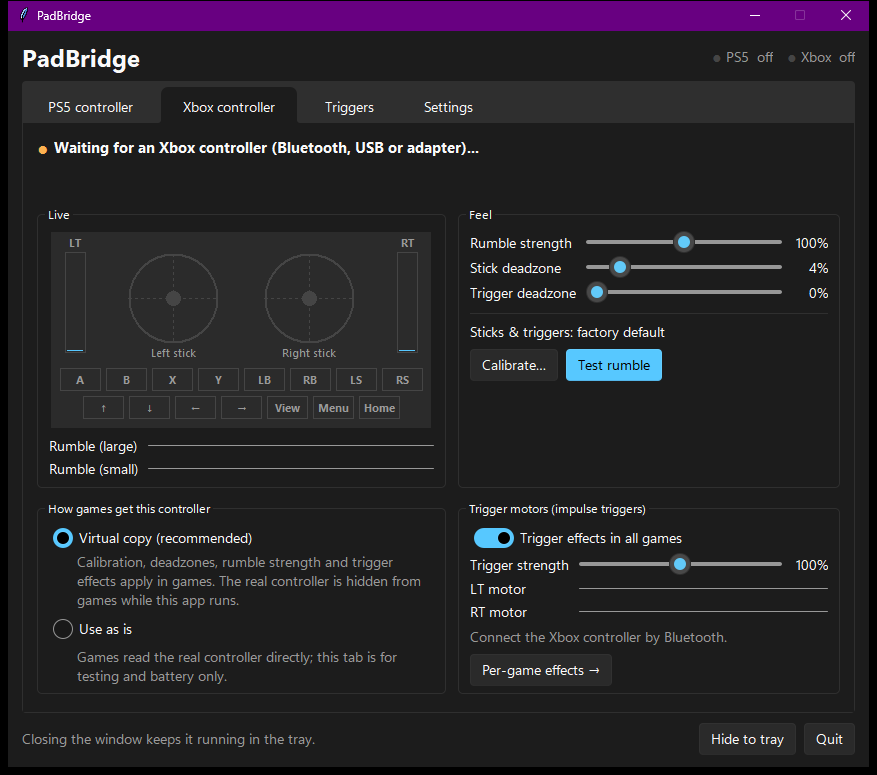
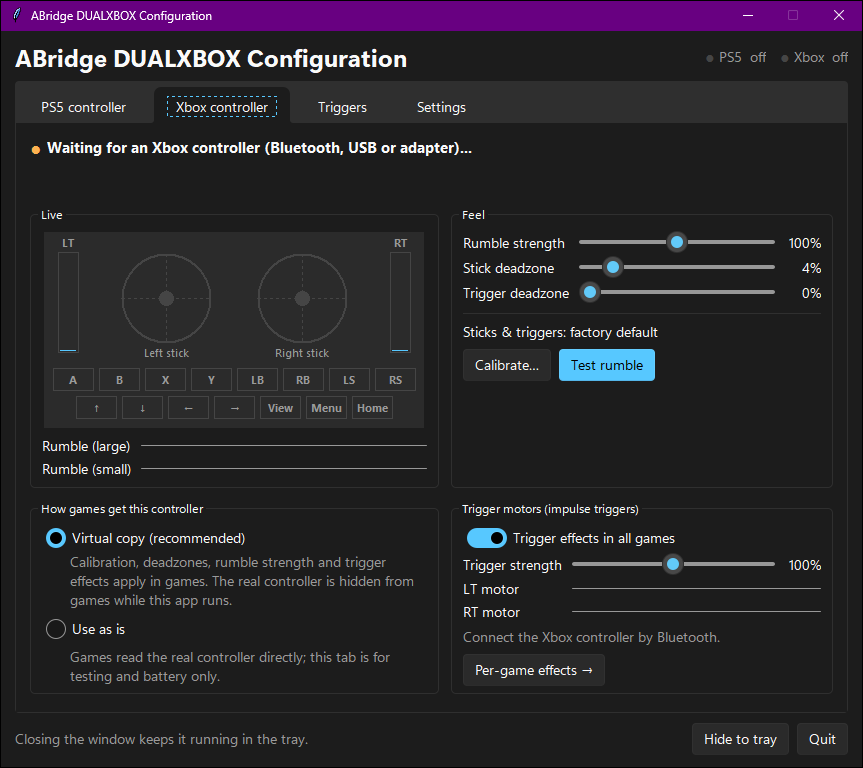
Rename to ABridge DUALXBOX Configuration; installer, setup guide, new screenshots

diff --git a/overlay_link.py b/overlay_link.py
@@ -1,6 +1,6 @@
-"""Shared-memory link with the RITOM's OWN LIBRARY game overlay.
+"""Shared-memory link with the KILA Local Game Library in-game overlay.
 
-16 bytes in the named mapping Local\\PuzariPadLink:
+16 bytes in the named mapping Local\\ABridgePadLink:
   0-1  buttons  (XInput bits, little endian) - written here, so the overlay can read the pad even
                 while the game is getting a neutral one
   2    hold     - set by the overlay while its panel is open: games get a neutral pad
@@ -17,7 +17,7 @@ GUIDE = 0x0400
 class Link:
     def __init__(self):
         try:
-            self.mm = mmap.mmap(-1, 16, tagname="Local\\PuzariPadLink")
+            self.mm = mmap.mmap(-1, 16, tagname="Local\\ABridgePadLink")
         except Exception:
             self.mm = None
         self.last = -1

diff --git a/README.md b/README.md
@@ -1,45 +1,106 @@
-# PadBridge
+# ABridge DUALXBOX Configuration
 
-A Windows companion app for **PS5 (DualSense)** and **Xbox** controllers on PC.
+A free Windows companion app for **PS5 DualSense** and **Xbox Series / One** controllers on PC.
 
-- **DualSense → Xbox:** games see your DualSense as a normal Xbox controller, with rumble, adaptive triggers and audio haptics.
-- **Xbox controller:** games get a calibrated virtual copy, plus **impulse-trigger effects in every game**.
-- **Per-game profiles** for both controllers, a **battery saver**, and very little added input delay.
+- **DualSense → Xbox:** every game sees your DualSense as a normal Xbox controller, with rumble, **adaptive triggers** and **audio haptics**.
+- **Xbox controller:** games get a calibrated virtual copy, plus **impulse-trigger (trigger motor) effects in every game**, even games that never supported them.
+- **Per-game profiles**, simulated **gun triggers**, **battery saver**, and about **0.25 ms** added input delay.
 
-![Xbox controller tab](docs/tab1.png)
+![PS5 controller tab](docs/tab0.png)
 
 ## Features
 
-### PS5 DualSense (USB or Bluetooth)
-- Shows up as a virtual **Xbox 360 controller** through ViGEmBus, so every game that supports Xbox controllers works.
+### PS5 DualSense / DualSense Edge (USB or Bluetooth)
+- Shows up as a virtual **Xbox 360 controller** (ViGEmBus), so every game with Xbox controller support works, Steam or not.
 - **Rumble** from games, 0–200% strength.
-- **Adaptive triggers:** each game can have its own L2/R2 effect: light or heavy resistance, gun "click", or machine-gun rattle.
-  - **Simulated guns** (pistol, assault rifle, burst, SMG, machine gun, shotgun, sniper) kick the trigger at their rate of fire, with an optional recoil pulse. The mic button switches between guns.
-  - For games with real PS5 support, tick **"supports the PS5 controller"** and the app hands the DualSense to the game.
-- **Audio haptics (USB):** feel the game's sound through the haptic motors, with a noise gate so quiet music and ambience aren't felt.
-- Lightbar colour and brightness, player-number LEDs, calibration wizard, firmware-updater shortcut.
+- **Adaptive triggers per game** on L2/R2: off, light or heavy resistance, gun "click", machine-gun rattle.
+- **Simulated guns**: pistol, assault rifle, burst, SMG, machine gun, shotgun and sniper. Pulling past the break point fires, the trigger kicks at the gun's rate of fire, with an optional recoil pulse in the controller body. The **mic button** switches to the next gun.
+- **Native PS5 games** (Cyberpunk 2077, Spider-Man, Returnal…): tick *"Game supports the PS5 controller"* and the app hands the real DualSense to that game, so you get the game's own triggers and haptics.
+- **Audio haptics (USB):** feel the game's sound through the haptic motors, with a noise gate so quiet music and ambience aren't felt, and live bass/level meters.
+- **Touchpad click = View (Back)**, lightbar colour and brightness, player-number LEDs.
+- **Calibration wizard** for sticks and triggers, stick and trigger deadzones.
+- **Firmware updater shortcut** (Sony's official tool).
+- Live view of sticks, triggers, buttons and rumble.
 
-### Xbox controller (Series X|S / One, Bluetooth)
-- **Virtual copy** mode: games get a corrected copy with your calibration and deadzones applied.
-- **Trigger motors (impulse triggers) in all games**, sent straight to the controller over Bluetooth HID. Per game, LT and RT can each be set to:
+### Xbox controller (Series X|S, One, Elite; Bluetooth for trigger motors)
+- **Virtual copy** mode: games get a corrected copy with your calibration, deadzones and rumble strength; the real pad is hidden from games.
+- **Trigger motors in all games**, sent straight to the controller over Bluetooth. Per game, LT and RT can each be:
   - **Buzz with the game's rumble** while you hold the trigger
   - **Aim:** a soft click when you pull past halfway, then buzz with the game's rumble
   - **Guns:** the same seven presets as the DualSense
   - **Powers:** e.g. *boulder launch*, a launch thump followed by the game's own power surge, boosted
   - **Machine-gun rattle** or **off**
+- Trigger strength 0–100%, live LT/RT motor meters, battery level read from Windows.
+- Turning the controller off and on, or Windows moving it to another slot, is handled automatically.
+
+![Xbox controller tab](docs/tab1.png)
+
+### Per-game profiles (both controllers)
+- Games are detected when they start; each game remembers its own PS5 trigger effects and Xbox trigger-motor effects, plus "Other games" as the default.
+- While the **Triggers** tab is open the selected profile is **live**, so you can pull the triggers and feel it before playing.
 
 ![Triggers tab](docs/tab2.png)
 
-### Both controllers
-- **Per-game trigger profiles.** The game is detected when it starts, and while the Triggers tab is open you can try a profile live.
-- **Battery:**
-  - Low-battery warning in the tray.
-  - **Battery saver:** automatic below a chosen %, always on, or off. It halves rumble, dims the lightbar and keeps only short trigger effects.
-  - Stuck rumble is stopped after 8 s if a game leaves it on and you're not touching the controller.
-- **HidHide** integration: games only see the virtual controllers, so there's no double input. Quitting the app shows the real controllers again.
-- Windows 11 style UI (light/dark), tray icon, start with Windows.
+### Battery and comfort
+- Low-battery warning in the tray (repeats every 15 min while low).
+- **Battery saver:** automatic below a chosen %, always on, or off. Half-strength rumble, dim lightbar, LEDs off, only short trigger effects.
+- **Stuck rumble stop:** rumble a game leaves running (pause menus, alt-tab) stops after 8 s if you aren't touching the controller.
+- Windows 11 style UI with light/dark theme, tray icon, **Start with Windows**.
+
+### HidHide integration
+- While the app runs, games only see the virtual controllers, so there's **no double input**. Quitting the app shows the real controllers again.
+- The app registers itself with HidHide automatically; nothing to set up by hand.
 
 ![Settings tab](docs/tab3.png)
+
+## Requirements (install these first)
+
+| What | Why | Where |
+| --- | --- | --- |
+| **Windows 10 or 11, 64-bit** | | |
+| **Python 3.12 (64-bit)** | runs the app. Tick **"Add python.exe to PATH"** in the installer | [python.org/downloads](https://www.python.org/downloads/) |
+| **ViGEmBus** (required) | creates the virtual Xbox controllers | [ViGEmBus releases](https://github.com/nefarius/ViGEmBus/releases) |
+| **HidHide** (strongly recommended) | hides the real controllers from games, so they don't see two pads. **Restart the PC** after installing | [HidHide releases](https://github.com/nefarius/HidHide/releases) |
+| **Bluetooth** | Xbox trigger motors only work over Bluetooth. Over USB or the Xbox Wireless Adapter you get normal rumble only | |
+| **USB cable** (DualSense) | needed for audio haptics; Bluetooth works for everything else | |
+
+## Install
+
+1. Install the requirements above (Python, ViGEmBus, HidHide), then restart the PC.
+2. Download the zip from [Releases](https://github.com/R1tom/ABridge-DUALXBOX/releases/latest) and extract it somewhere permanent (for example `D:\Apps\ABridge`).
+3. Double-click **`install.bat`**. It checks the drivers, creates a private Python environment, installs the dependencies, adds Desktop and Start menu shortcuts and opens the app.
+4. In the app's **Settings** tab, turn on **Start with Windows** if you want it in the tray at logon.
+
+Manual install instead of `install.bat`:
+```bat
+py -3.12 -m venv venv
+venv\Scripts\pip install -r requirements.txt
+venv\Scripts\pythonw.exe ps5toxbox.pyw
+```
+`--minimized` starts the app in the tray, and `--tab N` (0–3) opens it on a given tab. Settings are saved in `config.json` next to the app.
+
+## Set up Windows, Steam and other tools (important)
+
+Other software that also grabs the controller causes double input, wrong buttons or no trigger effects. Check these once:
+
+- **Close other controller tools:** DS4Windows, DualSenseX (DSX), reWASD, x360ce, InputMapper. Don't run them together with this app.
+- **Steam Input:** Steam can take over the controller and remap it.
+  - Steam → Settings → Controller: turn **off** Steam Input for **PlayStation** and **Xbox** controllers (the names of these switches differ a little between Steam versions).
+  - For a Steam game that still misbehaves: right-click the game → Properties → Controller → **"Disable Steam Input"**.
+  - Steam → Settings → Controller → **"Guide Button Focuses Steam"**: turn it off, or the PS / Xbox button opens Steam over your game.
+- **Xbox Game Bar:** Settings → Gaming → Game Bar → turn **off** *"Open Game Bar using this button on a controller"*, so the PS / Xbox button doesn't pop up Game Bar mid-game.
+- **Native PS5 games** (Cyberpunk 2077, Spider-Man, Returnal, Ratchet & Clank, God of War…): add the game on the Triggers tab and tick *"Game supports the PS5 controller"*, then restart the game. The game then talks to the DualSense itself; a USB cable gives the best haptics.
+- **Xbox controller firmware:** update it with the **Xbox Accessories** app from the Microsoft Store. Older Xbox One controllers without Bluetooth can't use trigger motors on PC.
+- **DualSense firmware:** use *Update firmware…* on the PS5 controller tab (Sony's official updater). The app releases the controller while it updates.
+- **Anti-cheat games:** a few competitive games block virtual controllers. Use *"Use as is"* on the Xbox tab, or quit the app, for those.
+
+## Troubleshooting
+
+- **"Could not create the virtual Xbox controller"**: ViGEmBus isn't installed or needs a restart.
+- **Games see two controllers / double input**: HidHide isn't installed, or the PC wasn't restarted after installing it. The Settings tab shows how many real controllers are hidden.
+- **No Xbox trigger effects**: connect the controller over Bluetooth, select *Virtual copy* on the Xbox tab, and make sure the game's profile isn't set to *off*.
+- **No audio haptics**: they need the DualSense on a USB cable.
+- Problems are logged to `abridge.log` (connects, disconnects, recovered errors) and `abridge_crash.log` next to the app.
 
 ## Latency
 The input path does only three things: read the controller, apply calibration, update the virtual pad. Rumble, trigger effects, guns and battery checks run on other threads. Measured on an i5-11400F for the Xbox copy:
@@ -49,42 +110,29 @@ The input path does only three things: read the controller, apply calibration, u
 That's about **0.25 ms** added on average. The DualSense side is event-driven: it forwards each report as soon as it arrives.
 
 ## Reliability
-- **Self-healing bridges:** if a controller bridge hits an unexpected error, the app logs it to `padbridge.log` and restarts the bridge about 1 s later. You don't need to restart the app or the PC.
+- **Self-healing bridges:** if a controller bridge hits an unexpected error, the app logs it and restarts the bridge about 1 s later. You don't need to restart the app or the PC.
 - **Turning the Xbox controller off and on** is handled. Windows can put the controller back in a different XInput slot, so the app checks 4 times a second that it's still reading the real controller and finds it again if it moved. Each check takes about 4 µs and runs outside the input path.
-- **Crash log:** a crash inside a native library (for example ViGEmClient) is written to `padbridge_crash.log`.
+- **Crash log:** a crash inside a native library (for example ViGEmClient) is written to `abridge_crash.log`.
 
-## Requirements
-- Windows 10/11
-- Python 3.12
-- [ViGEmBus](https://github.com/nefarius/ViGEmBus/releases) (virtual controllers)
-- Optional: [HidHide](https://github.com/nefarius/HidHide/releases) (hides the real controllers from games)
-- Xbox trigger motors need the controller connected over **Bluetooth**. Over USB or the Xbox Wireless Adapter you get normal rumble only.
-
-## Install & run
-Download the zip from [Releases](https://github.com/R1tom/PadBridge/releases/latest) and unzip it, or clone the repo:
-```bat
-git clone https://github.com/R1tom/PadBridge
-cd PadBridge
-py -3.12 -m venv venv
-venv\Scripts\pip install -r requirements.txt
-venv\Scripts\pythonw.exe ps5toxbox.pyw
-```
-Settings are saved in `config.json` next to the app, which is created on first run. `--minimized` starts the app in the tray, and `--tab N` opens it on a given tab.
+## Works with KILA Local Game Library
+[KILA Local Game Library](https://github.com/R1tom/kila-local-game-library) has an in-game overlay opened with the PS / Xbox button. With both apps running, the overlay can read the controller while games get a neutral pad, and keeps the Guide button for itself (`overlay_link.py`, a 16-byte shared-memory block). Without the overlay this does nothing.
 
 ## Notes
 - Windows.Gaming.Input ignores vibration from background apps, and XInput has no trigger motors. That's why the Xbox trigger effects are written as Bluetooth HID output report `0x03` (`[mask, LT, RT, strong, weak, on-time, off-time, repeat]`).
-- `overlay_link.py` is an optional link to a companion game overlay (a 16-byte shared-memory block). The overlay can hold the pad neutral while its panel is open, or keep the Guide button for itself. Without the overlay it does nothing.
-- Not affiliated with Sony or Microsoft.
+- Not affiliated with Sony or Microsoft. DualSense, PlayStation and Xbox are trademarks of their owners.
 
 ## Changelog
-**2026-10-18**
+**1.1.0** (2026-10-20)
+- Renamed from PadBridge to **ABridge DUALXBOX Configuration**. Logs are now `abridge.log` / `abridge_crash.log`.
+- New `install.bat`: checks ViGEmBus and HidHide, sets up Python and adds shortcuts.
+- README: full requirements and Windows / Steam setup guide.
+
+**1.0.0** (2026-10-18)
 - Fixed: the Xbox controller stopped working after it was turned off and on. The app kept reading its own virtual pad, and the Xbox tab showed "USB powered" instead of the battery level.
 - Fixed: a crash about 1 s after start when no DualSense was connected. Virtual pads were freed while ViGEm was still using them. They are now removed safely.
 - HidHide rules are re-applied only when something changes, not every 30 s.
 - Added the optional game-overlay link.
-
-**2026-10-15**
-- The controller bridges recover from unexpected errors on their own and log the cause to `padbridge.log`.
+- The controller bridges recover from unexpected errors on their own and log the cause.
 
 ## License
 [MIT](LICENSE)
